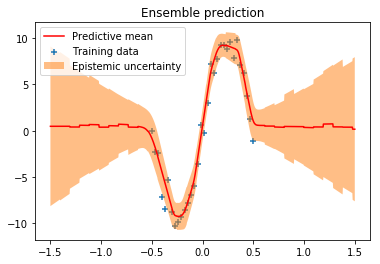
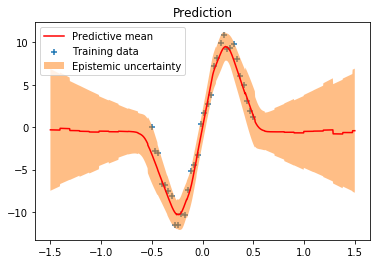
More clarity regarding the implementation of likelihood cost

diff --git a/_posts/2019-03-14-bayesian-neural-networks.md b/_posts/2019-03-14-bayesian-neural-networks.md
@@ -10,15 +10,15 @@ header-img: "img/distributed.png"
 
 This article demonstrates how to implement and train a Bayesian neural network with Keras following the approach described in [Weight Uncertainty in Neural Networks](https://arxiv.org/abs/1505.05424) (*Bayes by Backprop*). The implementation is kept simple for illustration purposes and uses Keras 2.2.4 and Tensorflow 1.12.0. For more advanced implementations of Bayesian learning methods for neural networks consider using [Tensorflow Probability](https://www.tensorflow.org/probability), for example.
 
-Bayesian neural networks differ from plain neural networks in that their weights are assigned a probability distribution instead of a single value or point estimate. These probability distributions describe the uncertainty in weights and can be used to estimate uncertainty in predictions. Training a Bayesian neural network learns the parameters of these distributions instead of weight values directly.
+Bayesian neural networks differ from plain neural networks in that their weights are assigned a probability distribution instead of a single value or point estimate. These probability distributions describe the uncertainty in weights and can be used to estimate uncertainty in predictions. Training a Bayesian neural network learns the parameters of these distributions instead of the weights directly.
 
 ## Probabilistic model
 
 A neural network can be viewed as probabilistic model $p(y \lvert \mathbf{x},\mathbf{w})$. For classification, $y$ is a set of classes and $p(y \lvert \mathbf{x},\mathbf{w})$ is a categorical distribution. For regression, $y$ is a continuous variable and $p(y \lvert \mathbf{x},\mathbf{w})$ is a Gaussian distribution. 
 
-Given a training dataset $$\mathcal{D} = \left\{\mathbf{x}^{(i)}, y^{(i)}\right\}$$ we can construct the likelihood function $p(\mathcal{D} \lvert \mathbf{w}) = \prod_i p(y^{(i)} \lvert \mathbf{x}^{(i)}, \mathbf{w})$ which is a function of parameters $\mathbf{w}$. Maximizing the likelihood function gives the maximimum likelihood estimate (MLE) of $\mathbf{w}$. The usual optimization objective during training is the negative log likelihood. For a categorical distribution this is proportional to the *cross entropy* error function, for a Gaussian distribution this is proportional to the *sum of squares* error function. MLE can lead to severe overfitting though.
+Given a training dataset $$\mathcal{D} = \left\{\mathbf{x}^{(i)}, y^{(i)}\right\}$$ we can construct the likelihood function $p(\mathcal{D} \lvert \mathbf{w}) = \prod_i p(y^{(i)} \lvert \mathbf{x}^{(i)}, \mathbf{w})$ which is a function of parameters $\mathbf{w}$. Maximizing the likelihood function gives the maximimum likelihood estimate (MLE) of $\mathbf{w}$. The usual optimization objective during training is the negative log likelihood. For a categorical distribution this is the *cross entropy* error function, for a Gaussian distribution this is proportional to the *sum of squares* error function. MLE can lead to severe overfitting though.
 
-Multiplying the likelihood with a prior distribution $p(\mathbf{w})$ is, by Bayes theorem, proportional to the posterior distribution $p(\mathbf{w} \lvert \mathcal{D}) \propto p(\mathcal{D} \lvert \mathbf{w}) p(\mathbf{w})$. Maximizing $p(\mathcal{D} \lvert \mathbf{w}) p(\mathbf{w})$ gives the maximum a posteriori (MAP) estimate of $\mathbf{w}$. Computing the MAP estimate has a regularizing effect and can prevent overfitting. The error functions here are the same as for MLE plus a regularization term coming from the log prior.
+Multiplying the likelihood with a prior distribution $p(\mathbf{w})$ is, by Bayes theorem, proportional to the posterior distribution $p(\mathbf{w} \lvert \mathcal{D}) \propto p(\mathcal{D} \lvert \mathbf{w}) p(\mathbf{w})$. Maximizing $p(\mathcal{D} \lvert \mathbf{w}) p(\mathbf{w})$ gives the maximum a posteriori (MAP) estimate of $\mathbf{w}$. Computing the MAP estimate has a regularizing effect and can prevent overfitting. The optimization objectives here are the same as for MLE plus a regularization term coming from the log prior.
 
 Both MLE and MAP give point estimates of parameters. If we instead had a full posterior distribution over parameters we could make predictions that take weight uncertainty into account. This is covered by the posterior predictive distribution $p(y \lvert \mathbf{x},\mathcal{D}) = \int p(y \lvert \mathbf{x}, \mathbf{w}) p(\mathbf{w} \lvert \mathcal{D}) d\mathbf{w}$ in which the parameters have been marginalized out. This is equivalent to averaging predictions from an ensemble of neural networks weighted by the posterior probabilities of their parameters $\mathbf{w}$. 
 
@@ -54,11 +54,11 @@ $$
 $$
 
 
-In the following example, we'll use a Gaussian distribution for the variational posterior, parameterized by $\boldsymbol{\theta} = (\boldsymbol{\mu}, \boldsymbol{\sigma})$ where $\boldsymbol{\mu}$ is the mean vector of the distribution and $\boldsymbol{\sigma}$ the standard deviation vector. The elements of $\boldsymbol{\sigma}$ are the elements of the diagonal covariance matrix which means that weights are assumed to be uncorrelated. Instead of parameterizing the neural network with weights $\mathbf{w}$ directly we parameterize it with $\boldsymbol{\mu}$ and $\boldsymbol{\sigma}$ and therefore double the number of parameters compared to a plain neural network. 
+In the following example, we'll use a Gaussian distribution for the variational posterior, parameterized by $\boldsymbol{\theta} = (\boldsymbol{\mu}, \boldsymbol{\sigma})$ where $\boldsymbol{\mu}$ is the mean vector of the distribution and $\boldsymbol{\sigma}$ the standard deviation vector. The elements of $\boldsymbol{\sigma}$ are the elements of a diagonal covariance matrix which means that weights are assumed to be uncorrelated. Instead of parameterizing the neural network with weights $\mathbf{w}$ directly we parameterize it with $\boldsymbol{\mu}$ and $\boldsymbol{\sigma}$ and therefore double the number of parameters compared to a plain neural network. 
 
 ## Network training
 
-A training iteration consists of a forward-pass and and backward-pass. During a forward pass a single sample is drawn from the variational posterior distribution. It is used to evaluate the approximate cost function defined by equation $3$. The first two terms of the cost function are data-independent and can be evaluated layer-wise, the last term is data-dependent and is evaluated at the end of the forward-pass. During a backward-pass, gradients of $\boldsymbol{\mu}$ and $\boldsymbol{\sigma}$ are calculated via backpropagation and their values updated by an optimizer.
+A training iteration consists of a forward-pass and and backward-pass. During a forward pass a single sample is drawn from the variational posterior distribution. It is used to evaluate the approximate cost function defined by equation $3$. The first two terms of the cost function are data-independent and can be evaluated layer-wise, the last term is data-dependent and is evaluated at the end of the forward-pass. During a backward-pass, gradients of $\boldsymbol{\mu}$ and $\boldsymbol{\sigma}$ are calculated via backpropagation so that their values can be updated by an optimizer.
 
 Since a forward pass involves a stochastic sampling step we have to apply the so-called *re-parameterization trick* for backpropagation to work. The trick is to sample from a parameter-free distribution and then transform the sampled $\boldsymbol{\epsilon}$ with a deterministic function $t(\boldsymbol{\mu}, \boldsymbol{\sigma}, \boldsymbol{\epsilon})$ for which a gradient can be defined. Here, $\boldsymbol{\epsilon}$ is drawn from a standard normal distribution i.e. $\boldsymbol{\epsilon} \sim \mathcal{N}(\mathbf{0}, \mathbf{I})$ and function $t(\boldsymbol{\mu}, \boldsymbol{\sigma}, \boldsymbol{\epsilon}) = \boldsymbol{\mu} + \boldsymbol{\sigma} \odot \boldsymbol{\epsilon}$ shifts the sample by mean $\boldsymbol{\mu}$ and scales it with $\boldsymbol{\sigma}$ where $\odot$ is element-wise multiplication.
 
@@ -66,11 +66,11 @@ For numeric stability we will parameterize the network with $\boldsymbol{\rho}$ 
 
 ## Uncertainty characterization
 
-Uncertainty in predictions that arise from the uncertainty in weights is called [epistemic uncertainty](https://en.wikipedia.org/wiki/Uncertainty_quantification). It can be reduced if we get more data. Consequently,  epistemic uncertainty is higher in regions of no or little training data and lower in regions of more training data. Epistemic uncertainty is covered by the variational posterior distribution. Uncertainty coming from the inherent noise in training data is an example of [aleatoric uncertainty](https://en.wikipedia.org/wiki/Uncertainty_quantification). It cannot be reduced if we get more data. Aleatoric uncertainty is covered by the probability distribution used to define the likelihood function. 
+Uncertainty in predictions that arise from the uncertainty in weights is called [epistemic uncertainty](https://en.wikipedia.org/wiki/Uncertainty_quantification). This kind of uncertainty can be reduced if we get more data. Consequently,  epistemic uncertainty is higher in regions of no or little training data and lower in regions of more training data. Epistemic uncertainty is covered by the variational posterior distribution. Uncertainty coming from the inherent noise in training data is an example of [aleatoric uncertainty](https://en.wikipedia.org/wiki/Uncertainty_quantification). It cannot be reduced if we get more data. Aleatoric uncertainty is covered by the probability distribution used to define the likelihood function. 
 
 ## Implementation example
 
-Variational inference of neural network parameters is now demonstrated on a simple regression problem. We therefore assume a Gaussian distribution for $p(y \lvert \mathbf{x},\mathbf{w})$ and consequently use a sum-of-squares error function as likelihood cost, corresponding to the last term in equation $3$. The training dataset consists of 32 noisy samples `X`, `y` drawn from a sinusoidal function.
+Variational inference of neural network parameters is now demonstrated on a simple regression problem. We therefore use a Gaussian distribution for $p(y \lvert \mathbf{x},\mathbf{w})$. The training dataset consists of 32 noisy samples `X`, `y` drawn from a sinusoidal function.
 
 
 ```python
@@ -84,10 +84,11 @@ def f(x, sigma):
     return 10 * np.sin(2 * np.pi * (x)) + epsilon
 
 train_size = 32
+noise = 1.0
 
 X = np.linspace(-0.5, 0.5, train_size).reshape(-1, 1)
-y = f(X, sigma=1)
-y_true = f(X, sigma=0)
+y = f(X, sigma=noise)
+y_true = f(X, sigma=0.0)
 
 plt.scatter(X, y, marker='+', label='Training data')
 plt.plot(X, y_true, label='Truth')
@@ -157,7 +158,7 @@ class DenseVariational(Layer):
 
         bias_sigma = tf.math.softplus(self.bias_rho)
         bias = self.bias_mu + bias_sigma * tf.random.normal(self.bias_mu.shape)
-        
+                
         self.add_loss(self.kl_loss(kernel, self.kernel_mu, kernel_sigma) + 
                       self.kl_loss(bias, self.bias_mu, bias_sigma))
         
@@ -174,7 +175,7 @@ class DenseVariational(Layer):
     Using TensorFlow backend.
 
 
-Our model is a neural network with two `DenseVariational` hidden layers, each having 20 units, and one `DenseVariational` output layer with one unit. Instead of modeling a full probability distribution $p(y \lvert \mathbf{x},\mathbf{w})$ as output of the network the output is simply the mean of the corresponding Gaussian distribution. In other words, we do not model aleatoric uncertainty here, only epistemic uncertainty.
+Our model is a neural network with two `DenseVariational` hidden layers, each having 20 units, and one `DenseVariational` output layer with one unit. Instead of modeling a full probability distribution $p(y \lvert \mathbf{x},\mathbf{w})$ as output the network simply outputs the mean of the corresponding Gaussian distribution. In other words, we do not model aleatoric uncertainty here and assume it is known. We only model epistemic uncertainty via the `DenseVariational` layers.
 
 Since the training dataset has only 32 examples we train the network with all 32 examples per epoch so that the number of batches per epoch is 1. For other configurations, the complexity cost (`kl_loss`) must be weighted by $1/M$ as described in section 3.4 of the paper where $M$ is the number of mini-batches per epoch.
 
@@ -195,20 +196,21 @@ x = DenseVariational(1, kl_loss_weight=kl_loss_weight)(x)
 model = Model(x_in, x)
 ```
 
-The network can now be trained as usual using a `sum_of_squares_error` function as loss function.
+The network can now be trained with a Gaussian negative log likelihood function (`neg_log_likelihood`) as loss function assuming a fixed standard deviation (`noise`). This corresponds to the *likelihood cost*, the last term in equation $3$. 
 
 
 ```python
 from keras import callbacks, optimizers
 
-def sum_of_squares_error(y_true, y_pred):
-    return K.sum(K.square(y_pred - y_true))
+def neg_log_likelihood(y_true, y_pred, sigma=noise):
+    dist = tf.distributions.Normal(loc=y_true, scale=sigma)
+    return K.sum(-dist.log_prob(y_pred))
 
-model.compile(loss=sum_of_squares_error, optimizer=optimizers.Adam(lr=0.05), metrics=['mse'])
-model.fit(X, y, batch_size=batch_size, epochs=1000, verbose=0);
+model.compile(loss=neg_log_likelihood, optimizer=optimizers.Adam(lr=0.03), metrics=['mse'])
+model.fit(X, y, batch_size=batch_size, epochs=1500, verbose=0);
 ```
 
-When calling `model.predict` we draw a random sample from the variational posterior distribution and use it to compute the output of the network. This is equivalent to obtaining the output from a single member of a hypothetical ensemble of neural networks. Drawing 500 samples means that we get predictions from 500 ensemble members. From these predictions we can compute statistics such as the mean and standard deviation. In our example, the standard deviation is a measure of epistemic uncertainty.
+When calling `model.predict` we draw a random sample from the variational posterior distribution and use it to compute the output value of the network. This is equivalent to obtaining the output from a single member of a hypothetical ensemble of neural networks. Drawing 500 samples means that we get predictions from 500 ensemble members. From these predictions we can compute statistics such as the mean and standard deviation. In our example, the standard deviation is a measure of epistemic uncertainty.
 
 
 ```python
@@ -232,11 +234,11 @@ plt.fill_between(X_test.ravel(),
                  y_mean + 2 * y_sigma, 
                  y_mean - 2 * y_sigma, 
                  alpha=0.5, label='Epistemic uncertainty')
-plt.title('Ensemble prediction')
+plt.title('Prediction')
 plt.legend();
 ```
 
-    100%|██████████| 500/500 [00:05<00:00, 86.25it/s]
+    100%|██████████| 500/500 [00:05<00:00, 89.00it/s]
 
 
 
